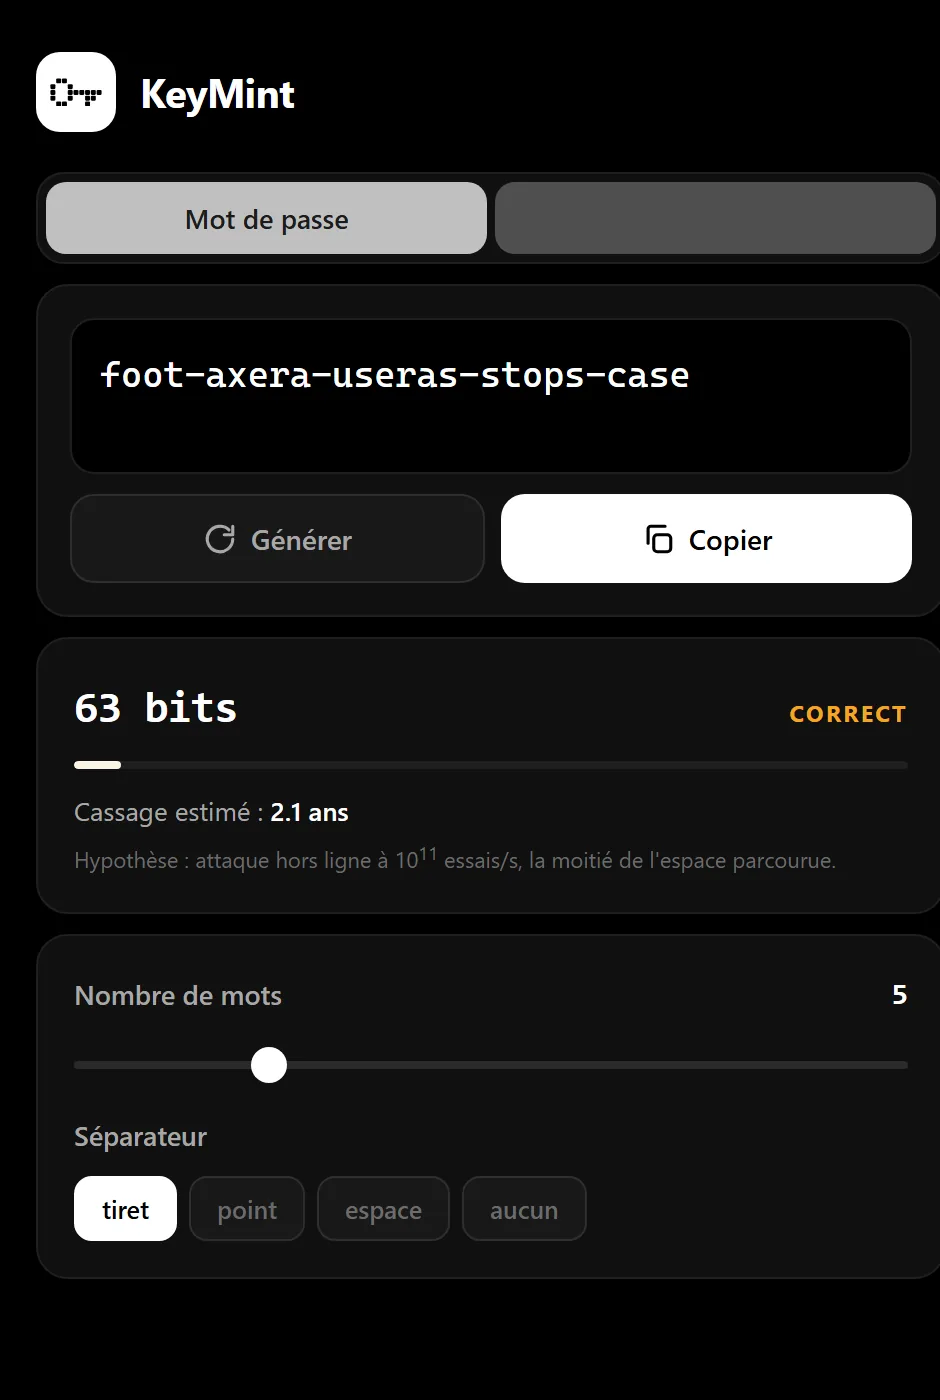
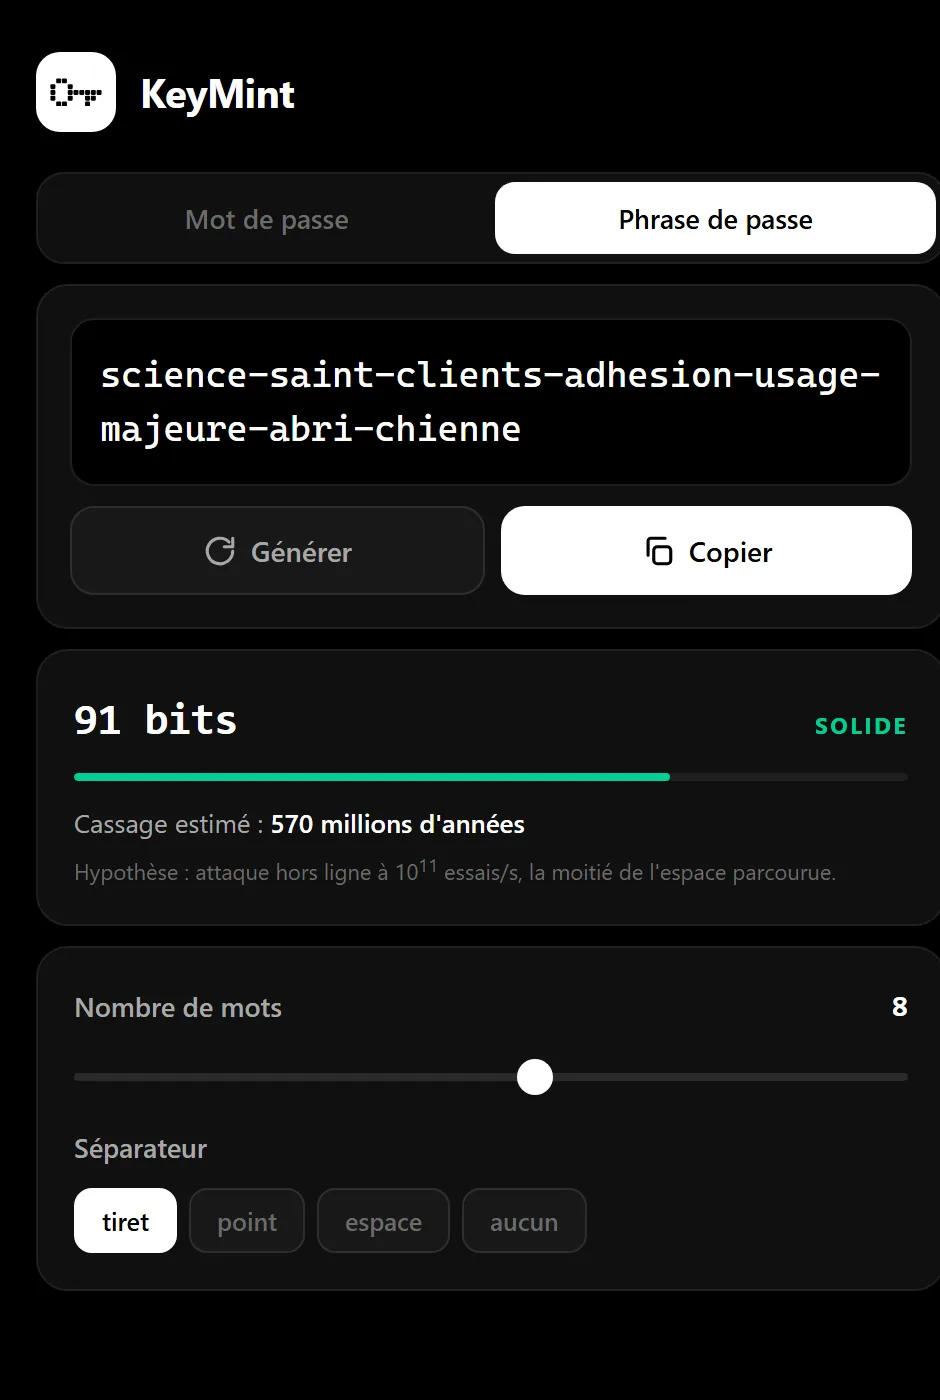
portfolio: KeyMint — nouvelle liste de mots (2783), capture et texte a jour (EN + FR)

diff --git a/index-fr.html b/index-fr.html
@@ -612,7 +612,7 @@ footer{border-top:1px solid var(--border);margin-top:80px;padding:32px 0;}
 <div class="pm" id="projmodal"><div class="pm-panel"><button class="pm-close" id="pm-close" aria-label="Close">✕</button><div id="pm-body"></div></div></div>
 <script type="application/json" id="projdata">
 {
- "keymint":{"title": "KeyMint — générateur de mots de passe", "cat": "🔑 Hors ligne · PWA + app Windows", "sub": "Des secrets forts, générés hors ligne, jamais enregistrés", "shots": [{"src": "assets/shots/keymint_password.webp", "cap": "Mode mot de passe — entropie réelle en bits"}, {"src": "assets/shots/keymint_passphrase.webp", "cap": "Mode phrase de passe — liste française de 6 658 mots"}], "desc": "Un générateur de mots de passe et de phrases de passe qui fonctionne entièrement hors ligne, sur téléphone (PWA installable) et sur Windows (.exe autonome). Il affiche l'entropie réelle en bits et un ordre de grandeur du temps de cassage sous une hypothèse explicitement affichée — plutôt qu'une jauge « faible/fort » arbitraire. Rien n'est jamais enregistré ni transmis.", "feats": ["Tirage uniforme sans biais : un rand() % taille_alphabet naïf favorise statistiquement les premiers caractères de l'alphabet. KeyMint utilise un rejection sampling sur des mots de 32 bits, et un test du khi-deux sur 500 000 tirages prouve que la distribution reste uniforme.", "L'aléa vient exclusivement du CSPRNG du système (crypto.getRandomValues). Math.random() est banni, et un test échoue si jamais il apparaît dans le moteur.", "Aucune contrainte de composition (pas de chiffre imposé) : forcer une classe de caractères retire de l'entropie au lieu d'en ajouter.", "Surface d'attaque nulle par conception : Content-Security-Policy stricte (default-src 'none'), aucune requête réseau, aucun secret persisté, presse-papier effacé automatiquement au bout de 2 minutes.","Cycle de vie mobile pris en compte explicitement : un téléphone suspend la page dès qu'on quitte l'app, le minuteur d'effacement ne se déclenche donc pas et l'API presse-papier exige de toute façon le focus. La copie est horodatée et un second déclencheur agit au retour dans l'app (visibilitychange / focus / pageshow) en rattrapant le temps écoulé — la limite de plateforme restante étant documentée plutôt que masquée.", "Un seul moteur partagé par les deux plateformes : l'app Windows sert le même code via pywebview sur 127.0.0.1 — un contexte sécurisé, ce que file:// n'est pas et qu'exige l'API presse-papier.", "26 tests automatisés, dont des khi-deux sur le tirage, sur le mélange de Fisher-Yates et sur les caractères réellement produits."], "metrics": [["99 bits", "16 caractères, alphabet de 76"], ["χ² 500k", "absence de biais prouvée"], ["0 stocké", "rien n'est persisté"], ["2 min", "presse-papier effacé"]], "tech": ["JavaScript", "Web Crypto API", "PWA", "Service Worker", "Content-Security-Policy", "Python", "pywebview", "PyInstaller", "Tests Node.js", "Cryptographie appliquée"], "repo": "https://github.com/thespicyy/keymint", "demo": "https://thespicyy.github.io/keymint/"},
+ "keymint":{"title": "KeyMint — générateur de mots de passe", "cat": "🔑 Hors ligne · PWA + app Windows", "sub": "Des secrets forts, générés hors ligne, jamais enregistrés", "shots": [{"src": "assets/shots/keymint_password.webp", "cap": "Mode mot de passe — entropie réelle en bits"}, {"src": "assets/shots/keymint_passphrase.webp", "cap": "Mode phrase de passe — liste française de 2783 mots"}], "desc": "Un générateur de mots de passe et de phrases de passe qui fonctionne entièrement hors ligne, sur téléphone (PWA installable) et sur Windows (.exe autonome). Il affiche l'entropie réelle en bits et un ordre de grandeur du temps de cassage sous une hypothèse explicitement affichée — plutôt qu'une jauge « faible/fort » arbitraire. Rien n'est jamais enregistré ni transmis.", "feats": ["Tirage uniforme sans biais : un rand() % taille_alphabet naïf favorise statistiquement les premiers caractères de l'alphabet. KeyMint utilise un rejection sampling sur des mots de 32 bits, et un test du khi-deux sur 500 000 tirages prouve que la distribution reste uniforme.","La liste de mots des phrases de passe a été refaite intégralement. Les listes Diceware françaises existantes sont bâties sur un lexique de fréquence sans filtrer la catégorie grammaticale : elles produisent des phrases impossibles à retenir (mots rares, formes conjuguées). La nouvelle croise quatre signaux indépendants — fréquence d'usage réelle (wordfreq), filtres morphologiques, comparaison fr/en pour écarter les anglicismes, étiquetage grammatical (spaCy) pour ne garder que noms communs et adjectifs, et validation par dictionnaire exploitant la casse pour éliminer les noms propres. 2783 mots du quotidien.", "L'aléa vient exclusivement du CSPRNG du système (crypto.getRandomValues). Math.random() est banni, et un test échoue si jamais il apparaît dans le moteur.", "Aucune contrainte de composition (pas de chiffre imposé) : forcer une classe de caractères retire de l'entropie au lieu d'en ajouter.", "Surface d'attaque nulle par conception : Content-Security-Policy stricte (default-src 'none'), aucune requête réseau, aucun secret persisté, presse-papier effacé automatiquement au bout de 2 minutes.","Cycle de vie mobile pris en compte explicitement : un téléphone suspend la page dès qu'on quitte l'app, le minuteur d'effacement ne se déclenche donc pas et l'API presse-papier exige de toute façon le focus. La copie est horodatée et un second déclencheur agit au retour dans l'app (visibilitychange / focus / pageshow) en rattrapant le temps écoulé — la limite de plateforme restante étant documentée plutôt que masquée.", "Un seul moteur partagé par les deux plateformes : l'app Windows sert le même code via pywebview sur 127.0.0.1 — un contexte sécurisé, ce que file:// n'est pas et qu'exige l'API presse-papier.", "26 tests automatisés, dont des khi-deux sur le tirage, sur le mélange de Fisher-Yates et sur les caractères réellement produits."], "metrics": [["99 bits", "16 caractères, alphabet de 76"], ["χ² 500k", "absence de biais prouvée"], ["0 stocké", "rien n'est persisté"], ["2 min", "presse-papier effacé"]], "tech": ["JavaScript", "Web Crypto API", "PWA", "Service Worker", "Content-Security-Policy", "Python", "pywebview", "PyInstaller", "Tests Node.js", "Cryptographie appliquée"], "repo": "https://github.com/thespicyy/keymint", "demo": "https://thespicyy.github.io/keymint/"},
  "rnglab":{"title": "RNG Lab — aléatoire statistique contre aléatoire cryptographique", "cat": "🎲 Cryptanalyse · Statistiques inférentielles", "sub": "Réussir les tests n'est pas être sûr — démontré sur banc d'essai", "shots": [{"src": "assets/shots/rnglab_matrix.webp", "cap": "Matrice des résultats — 8 générateurs × 8 tests"}], "desc": "Un banc d'essai comparatif de 8 générateurs de nombres aléatoires, passés au crible d'une batterie de 8 tests statistiques implémentés de zéro, puis d'une attaque de cryptanalyse. Le livrable est un rapport HTML autonome aux figures SVG écrites à la main. Il établit expérimentalement un résultat contre-intuitif : réussir les tests statistiques ne prouve rien sur la sécurité.", "feats": ["Mersenne Twister — le générateur de Python, PHP, Ruby et Excel — passe les 8 tests sans faiblesse, et 100 % de ses sorties futures sont prédites après observation de 624 valeurs, en inversant sa fonction de tempering pour reconstruire l'état interne.", "Une source d'entropie rigoureusement nulle, conditionnée par SHA-256, passe elle aussi les 8 tests. Les tests mesurent le conditionneur, jamais la source — c'est précisément pourquoi un générateur matériel maison est dangereux.", "Deux trouvailles sur la construction d'une vraie source physique : sous Windows la granularité d'horloge de 100 ns annule silencieusement l'entropie d'un TRNG par jitter naïf (min-entropie mesurée à 0,000 bit/bit), et après débiaisage de von Neumann le flux reste déséquilibré à 0,467 — ce qui prouve que les bits bruts ne sont pas indépendants, l'hypothèse même de la méthode.", "Les 8 tests suivent NIST SP 800-22 (monobit, runs, plus longue série, khi-deux, spectral par DFT, autocorrélation avec correction de Bonferroni, incompressibilité). Les p-valeurs reposent sur une fonction gamma incomplète régularisée écrite à la main et validée contre SciPy.", "Chaque test est éprouvé sur des suites délibérément défectueuses dont on connaît le défaut — un test qui ne rejette jamais rien ne vaut rien."], "metrics": [["5 000/5 000", "sorties de MT19937 prédites"], ["0 bit", "d'entropie qui passe quand même 8/8"], ["8 tests", "implémentés de zéro"], ["590 000×", "CSPRNG contre TRNG logiciel"]], "tech": ["Python", "NumPy", "Cryptanalyse", "Statistiques inférentielles", "NIST SP 800-22", "NIST SP 800-90B", "Analyse numérique", "Théorie de l'information", "SVG écrit à la main"], "repo": null, "demo": "rng-lab/index.html"},
  "tdl":{"title":"TDL — Mes tâches","cat":"📱 PWA · To-do multi-appareils","sub":"Une to-do list simple, synchronisée tél & PC",
   "shots":[{"src":"assets/shots/tdl_todo_list.webp","cap":"Liste de tâches (PWA mobile)"},{"src":"assets/shots/tdl_todo_sync.webp","cap":"Synchro multi-appareils"}],

diff --git a/index.html b/index.html
@@ -612,7 +612,7 @@ footer{border-top:1px solid var(--border);margin-top:80px;padding:32px 0;}
 <div class="pm" id="projmodal"><div class="pm-panel"><button class="pm-close" id="pm-close" aria-label="Close">✕</button><div id="pm-body"></div></div></div>
 <script type="application/json" id="projdata">
 {
- "keymint":{"title": "KeyMint — password generator", "cat": "🔑 Offline · PWA + Windows app", "sub": "Strong secrets, generated offline, never stored", "shots": [{"src": "assets/shots/keymint_password.webp", "cap": "Password mode — real entropy in bits"}, {"src": "assets/shots/keymint_passphrase.webp", "cap": "Passphrase mode — 6 658-word French list"}], "desc": "A password and passphrase generator that runs entirely offline, on the phone (installable PWA) and on Windows (standalone .exe). It shows the real entropy in bits and an order of magnitude for the cracking time under an explicitly stated assumption — rather than an arbitrary weak/strong gauge. Nothing is ever stored or transmitted.", "feats": ["Unbiased uniform sampling: a naive rand() % alphabet_size statistically favours the first characters of the alphabet. KeyMint uses rejection sampling over 32-bit words, and a chi-square test on 500 000 draws proves the distribution stays uniform.", "Randomness comes exclusively from the OS CSPRNG (crypto.getRandomValues). Math.random() is banned, and a test fails the build if it ever appears in the engine.", "No composition constraint (no forced digit): forcing a character class removes entropy instead of adding it.", "Zero attack surface by design: strict Content-Security-Policy (default-src 'none'), no network request at all, no secret persisted, clipboard wiped automatically after 2 minutes.","Mobile lifecycle handled explicitly: a phone suspends the page the moment you leave the app, so the wipe timer never fires and the clipboard API requires focus anyway. The copy is timestamped and a second trigger runs on return to the app (visibilitychange / focus / pageshow), catching up the elapsed time — with the remaining platform limitation documented rather than hidden.", "One engine shared by both platforms: the Windows app serves the same code through pywebview over 127.0.0.1 — a secure context, which file:// is not, and which the clipboard API requires.", "26 automated tests, including chi-square on the sampler, on the Fisher-Yates shuffle and on the characters actually produced."], "metrics": [["99 bits", "16 chars, 76-symbol alphabet"], ["χ² 500k", "proven bias-free"], ["0 stored", "nothing persisted"], ["2 min", "clipboard auto-wipe"]], "tech": ["JavaScript", "Web Crypto API", "PWA", "Service Worker", "Content-Security-Policy", "Python", "pywebview", "PyInstaller", "Node.js tests", "Applied cryptography"], "repo": "https://github.com/thespicyy/keymint", "demo": "https://thespicyy.github.io/keymint/"},
+ "keymint":{"title": "KeyMint — password generator", "cat": "🔑 Offline · PWA + Windows app", "sub": "Strong secrets, generated offline, never stored", "shots": [{"src": "assets/shots/keymint_password.webp", "cap": "Password mode — real entropy in bits"}, {"src": "assets/shots/keymint_passphrase.webp", "cap": "Passphrase mode — 2783-word French list"}], "desc": "A password and passphrase generator that runs entirely offline, on the phone (installable PWA) and on Windows (standalone .exe). It shows the real entropy in bits and an order of magnitude for the cracking time under an explicitly stated assumption — rather than an arbitrary weak/strong gauge. Nothing is ever stored or transmitted.", "feats": ["Unbiased uniform sampling: a naive rand() % alphabet_size statistically favours the first characters of the alphabet. KeyMint uses rejection sampling over 32-bit words, and a chi-square test on 500 000 draws proves the distribution stays uniform.","The passphrase wordlist was rebuilt from scratch. Off-the-shelf French Diceware lists are built on a frequency lexicon without filtering by part of speech, so they yield unmemorable phrases (rare words, conjugated verb forms). The new list crosses four independent signals — real usage frequency (wordfreq), morphological filters, a French/English comparison to drop loanwords, part-of-speech tagging (spaCy) to keep only common nouns and adjectives, and dictionary validation exploiting capitalisation to remove proper nouns. 2783 everyday words.", "Randomness comes exclusively from the OS CSPRNG (crypto.getRandomValues). Math.random() is banned, and a test fails the build if it ever appears in the engine.", "No composition constraint (no forced digit): forcing a character class removes entropy instead of adding it.", "Zero attack surface by design: strict Content-Security-Policy (default-src 'none'), no network request at all, no secret persisted, clipboard wiped automatically after 2 minutes.","Mobile lifecycle handled explicitly: a phone suspends the page the moment you leave the app, so the wipe timer never fires and the clipboard API requires focus anyway. The copy is timestamped and a second trigger runs on return to the app (visibilitychange / focus / pageshow), catching up the elapsed time — with the remaining platform limitation documented rather than hidden.", "One engine shared by both platforms: the Windows app serves the same code through pywebview over 127.0.0.1 — a secure context, which file:// is not, and which the clipboard API requires.", "26 automated tests, including chi-square on the sampler, on the Fisher-Yates shuffle and on the characters actually produced."], "metrics": [["99 bits", "16 chars, 76-symbol alphabet"], ["χ² 500k", "proven bias-free"], ["0 stored", "nothing persisted"], ["2 min", "clipboard auto-wipe"]], "tech": ["JavaScript", "Web Crypto API", "PWA", "Service Worker", "Content-Security-Policy", "Python", "pywebview", "PyInstaller", "Node.js tests", "Applied cryptography"], "repo": "https://github.com/thespicyy/keymint", "demo": "https://thespicyy.github.io/keymint/"},
  "rnglab":{"title": "RNG Lab — statistical vs cryptographic randomness", "cat": "🎲 Cryptanalysis · Inferential statistics", "sub": "Passing the tests is not being secure — proven on a bench", "shots": [{"src": "assets/shots/rnglab_matrix.webp", "cap": "Results matrix — 8 generators × 8 statistical tests"}], "desc": "A comparative bench of 8 random number generators, put through a battery of 8 statistical tests implemented from scratch, then through a cryptanalytic attack. The deliverable is a self-contained HTML report with hand-written SVG figures. It establishes experimentally a counter-intuitive result: passing the statistical tests proves nothing about security.", "feats": ["Mersenne Twister — the generator behind Python, PHP, Ruby and Excel — passes all 8 tests without a weakness, and 100 % of its future output is predicted after observing 624 values, by inverting its tempering function to rebuild the internal state.", "An entropy source containing exactly zero entropy, conditioned through SHA-256, also passes all 8 tests. The tests measure the conditioner, never the source — which is precisely why a homemade hardware generator is dangerous.", "Two findings on building a real physical source: on Windows the 100 ns clock granularity silently zeroes the entropy of a naive jitter TRNG (min-entropy measured at 0.000 bit/bit), and after von Neumann debiasing the stream stays imbalanced at 0.467 — proving the raw bits are not independent, which is the method's own assumption.", "The 8 tests follow NIST SP 800-22 (monobit, runs, longest run, chi-square, spectral DFT, autocorrelation with Bonferroni correction, incompressibility). P-values rest on a regularised incomplete gamma function written by hand and cross-validated against SciPy.", "Every test is exercised on deliberately defective sequences whose flaw is known in advance — a test that never rejects anything is worthless."], "metrics": [["5 000/5 000", "MT19937 outputs predicted"], ["0 bits", "of entropy still scoring 8/8"], ["8 tests", "implemented from scratch"], ["590 000×", "CSPRNG vs software TRNG"]], "tech": ["Python", "NumPy", "Cryptanalysis", "Inferential statistics", "NIST SP 800-22", "NIST SP 800-90B", "Numerical analysis", "Information theory", "Hand-written SVG"], "repo": null, "demo": "rng-lab/index.en.html"},
  "tdl":{"title":"TDL — My tasks","cat":"📱 PWA · Multi-device to-do","sub":"A simple to-do list, synced across phone & PC",
   "shots":[{"src":"assets/shots/tdl_todo_list.webp","cap":"To-do list (mobile PWA)"},{"src":"assets/shots/tdl_todo_sync.webp","cap":"Multi-device sync"}],
